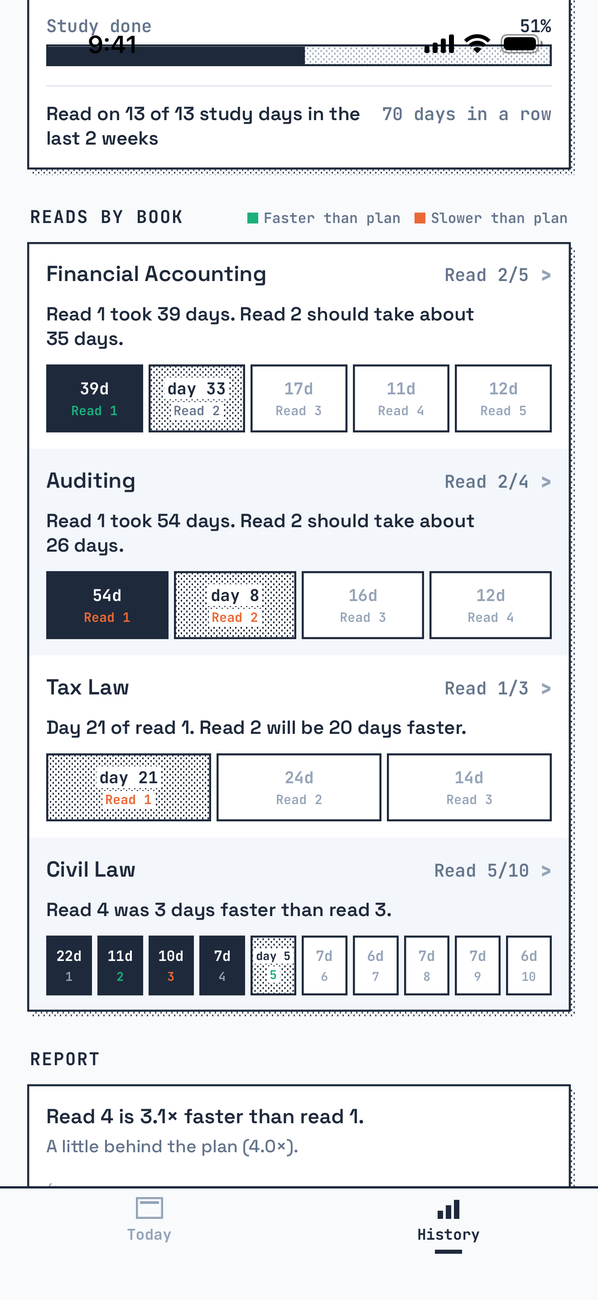
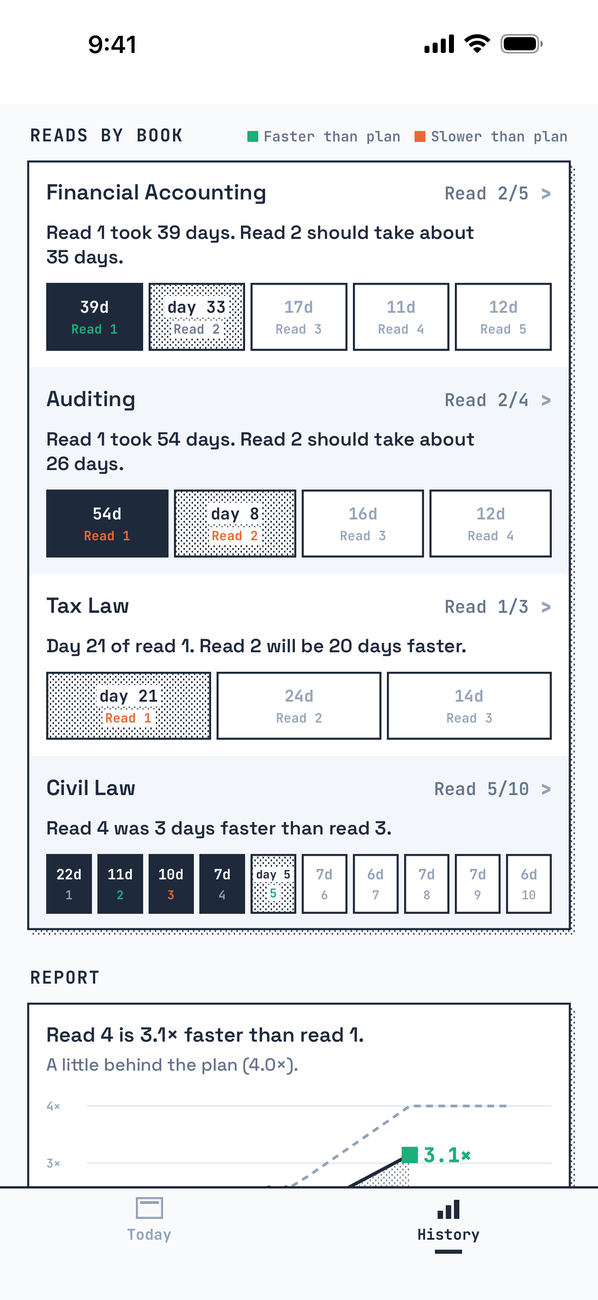
Landing: white status bar on the phone shots, the history phone shows just reads by book, and the wide tiles show a piece of the real screen on their right half instead of a tilted phone

Changed region(s): [[0.0301, 0.0, 0.9632, 0.8923], [0.602, 0.8308, 0.8428, 0.9231]]

diff --git a/src/styles/landing.css b/src/styles/landing.css
@@ -34,7 +34,11 @@
 .phone { position: absolute; border-radius: 40px; background: var(--deep); padding: 7px; box-shadow: 0 24px 50px rgba(15, 23, 43, .22); }
 .phone img { display: block; width: 100%; border-radius: 34px; }
 .tall .phone { left: 50%; width: 276px; margin-left: -138px; top: 150px; }
-.wide .phone { right: 60px; top: 46px; width: 230px; transform: rotate(-4deg); }
+/* Wide tiles: words on the left half, a piece of the real screen on the right half (no phone). */
+.panel { position: absolute; top: 0; right: 0; bottom: 0; width: 50%; overflow: hidden; background: #f8fafc; display: flex; justify-content: center; padding: 0 26px; }
+.panel img { display: block; width: 100%; max-width: 420px; height: auto; }
+.panel.mid { align-items: center; }
+.panel.top { align-items: flex-start; padding-top: 26px; }
 .t-history .phone { left: 50%; width: 220px; margin-left: -110px; top: 120px; }
 
 .t-brand { display: flex; flex-direction: column; align-items: center; justify-content: center; text-align: center; }
@@ -112,8 +116,7 @@
 /* ---------- Narrow screens ---------- */
 @media (max-width: 1100px) {
   .bento { grid-template-columns: 1fr 1fr; }
-  .wide .copy { max-width: 52%; }
-  .wide .phone { right: 28px; }
+  .wide .copy { max-width: calc(50% - 56px); }
 }
 @media (max-width: 640px) {
   .hero { padding: 73px 20px 104px; }
@@ -125,7 +128,9 @@
   .tall { grid-row: span 1; }
   .wide { grid-column: span 1; }
   .wide .copy { position: relative; left: 0; top: 0; transform: none; max-width: none; }
-  .tall .phone, .wide .phone, .t-history .phone { left: 50%; right: auto; width: 230px; margin-left: -115px; top: 128px; transform: none; }
+  .panel { top: auto; left: 0; width: 100%; height: 58%; padding: 0 22px; }
+  .panel.top { padding-top: 18px; }
+  .tall .phone, .t-history .phone { left: 50%; right: auto; width: 230px; margin-left: -115px; top: 128px; transform: none; }
   .t-brand { display: none; }
   .tile h3 { font-size: 24px; }
   .section { padding-top: 125px; }
